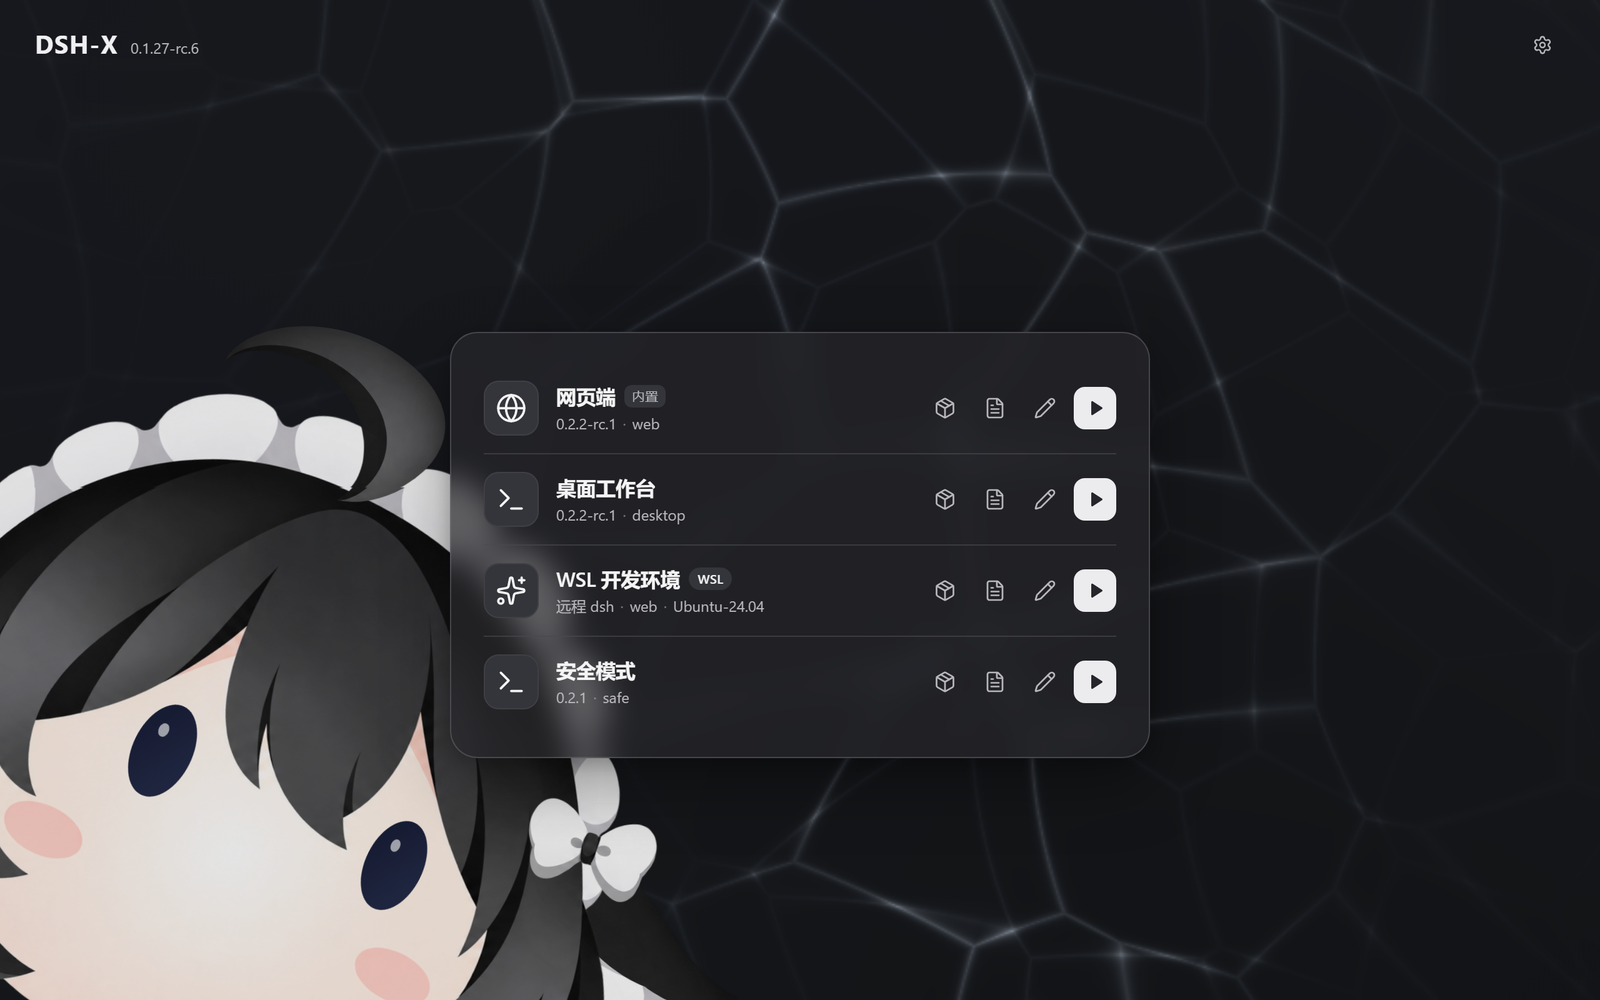
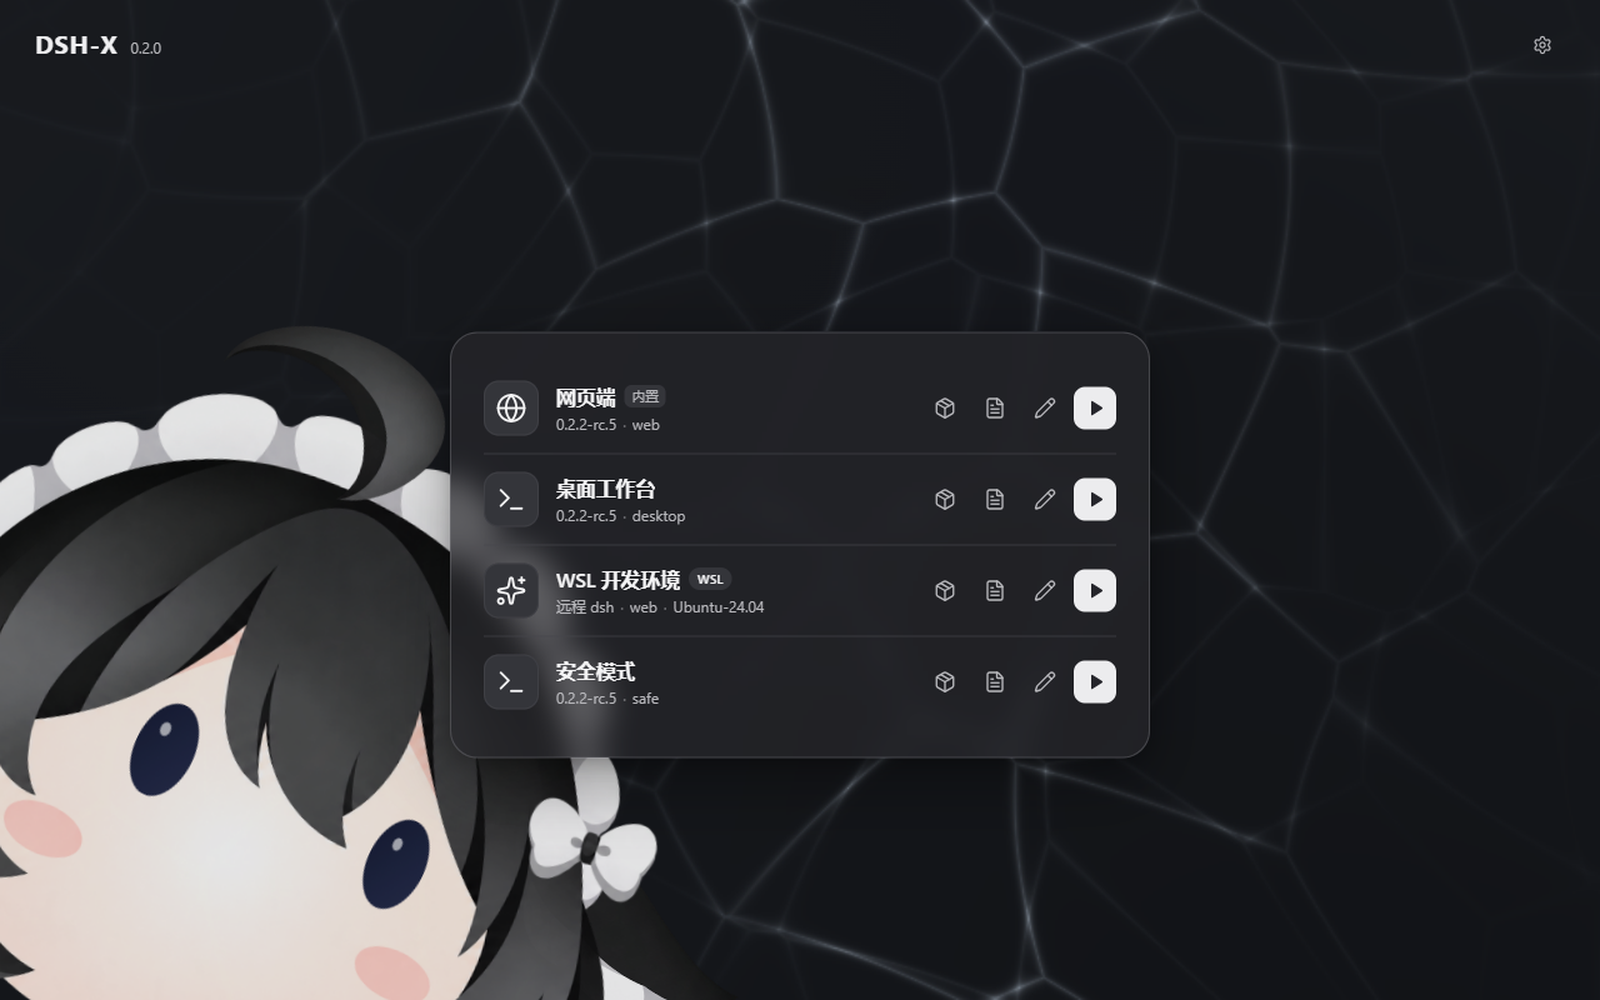
chore: 英文 README 的主图与截图改用英文界面
- 首屏主图按当前 0.2.0 UI 重拍，英文 demo 启动项不再出现中文名字
- 插件页补英文自述版本；多标签页新增英文截图，中文 README 仍用中文图
- make-hero.py 改为优先读取工作区截图，缺失才回退 HEAD

diff --git a/scripts/make-hero.py b/scripts/make-hero.py
@@ -57,15 +57,17 @@ def rounded_icon(size: int) -> Image.Image:
 
 
 def load_shot(name: str) -> Image.Image:
-    try:
-        raw = subprocess.check_output(
-            ['git', 'show', f'HEAD:docs/screenshots/{name}'],
-            cwd=ROOT,
-            stderr=subprocess.DEVNULL,
-        )
-        return Image.open(io.BytesIO(raw)).convert('RGBA')
-    except subprocess.CalledProcessError:
-        return Image.open(DOCS / 'screenshots' / name).convert('RGBA')
+    # 工作区里的截图才是刚拍的；只有文件不在磁盘上时才回退到 HEAD 里的版本。
+    # （反过来先读 HEAD 会让重拍过的截图被悄悄忽略，主图继续用旧的那张。）
+    local = DOCS / 'screenshots' / name
+    if local.exists():
+        return Image.open(local).convert('RGBA')
+    raw = subprocess.check_output(
+        ['git', 'show', f'HEAD:docs/screenshots/{name}'],
+        cwd=ROOT,
+        stderr=subprocess.DEVNULL,
+    )
+    return Image.open(io.BytesIO(raw)).convert('RGBA')
 
 
 def make_rounded_mask(w: int, h: int, r: int, ss: int = 4) -> Image.Image:

diff --git a/README.en.md b/README.en.md
@@ -42,7 +42,7 @@
 
 <p align="center">
   <picture>
-    <source media="(prefers-color-scheme: dark)" srcset="docs/screenshots/screenshot-launches.png" />
+    <source media="(prefers-color-scheme: dark)" srcset="docs/screenshots/screenshot-home-dark-en.jpg" />
     <img src="docs/screenshots/screenshot-home-en.jpg" alt="DSH-X Home" width="840" />
   </picture>
 </p>
@@ -83,7 +83,7 @@
   </picture>
 </p>
 <p align="center">
-  <img src="docs/screenshots/screenshot-tabs.png" alt="Multi-Tab Workspace" width="840" />
+  <img src="docs/screenshots/screenshot-tabs-en.png" alt="Multi-Tab Workspace" width="840" />
 </p>
 
 </details>
